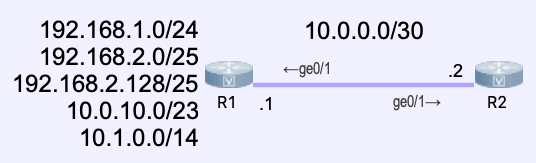
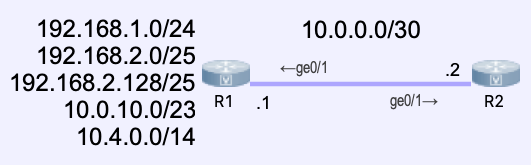
Correct IP overlap conflict in content and images

diff --git a/_posts/2019-12-27-Quick-Lab-RIPv2-Auto-Summary.md b/_posts/2019-12-27-Quick-Lab-RIPv2-Auto-Summary.md
@@ -57,7 +57,7 @@ interface Loopback3
 
 interface Loopback4
   no shutdown
-  ip address 10.1.0.1 255.252.0.0
+  ip address 10.4.0.1 255.252.0.0
 
 router rip
   version 2
@@ -113,7 +113,7 @@ Loopback0                  192.168.1.1     YES TFTP   up                    up
 Loopback1                  192.168.2.1     YES TFTP   up                    up
 Loopback2                  192.168.2.129   YES TFTP   up                    up
 Loopback3                  10.0.10.1       YES TFTP   up                    up
-Loopback4                  10.1.0.1        YES TFTP   up                    up
+Loopback4                  10.4.0.1        YES TFTP   up                    up
 ```
 
 Next, let's confirm that RIPv2 is automatically performing network summarization, as well as advertising all desired networks.
@@ -169,12 +169,12 @@ We can see which specific prefixes RIPv2 is advertising through `debug ip rip`:
 R1#debug ip rip
 RIP protocol debugging is on
 R1#
-*Dec 27 13:39:37.978: RIP: sending v2 update to 224.0.0.9 via GigabitEthernet0/1 (10.0.0.1)
-*Dec 27 13:39:37.979: RIP: build update entries
-*Dec 27 13:39:37.979: 	10.0.0.0/14 via 0.0.0.0, metric 1, tag 0
-*Dec 27 13:39:37.979: 	10.0.10.0/23 via 0.0.0.0, metric 1, tag 0
-*Dec 27 13:39:37.980: 	192.168.1.0/24 via 0.0.0.0, metric 1, tag 0
-*Dec 27 13:39:37.980: 	192.168.2.0/24 via 0.0.0.0, metric 1, tag 0
+*Dec 28 03:17:42.650: RIP: sending v2 update to 224.0.0.9 via GigabitEthernet0/1 (10.0.0.1)
+*Dec 28 03:17:42.651: RIP: build update entries
+*Dec 28 03:17:42.651: 	10.0.10.0/23 via 0.0.0.0, metric 1, tag 0
+*Dec 28 03:17:42.651: 	10.4.0.0/14 via 0.0.0.0, metric 1, tag 0
+*Dec 28 03:17:42.652: 	192.168.1.0/24 via 0.0.0.0, metric 1, tag 0
+*Dec 28 03:17:42.652: 	192.168.2.0/24 via 0.0.0.0, metric 1, tag 0
 R1#undebug all
 All possible debugging has been turned off
 R1#
@@ -189,17 +189,17 @@ R2's RIPv2 database confirms the prefixes received by R1.
 ```
 R2#show ip rip database
 10.0.0.0/8    auto-summary
-10.0.0.0/14
-    [1] via 10.0.0.1, 00:00:08, GigabitEthernet0/1
 10.0.0.0/30    directly connected, GigabitEthernet0/1
 10.0.10.0/23
-    [1] via 10.0.0.1, 00:00:08, GigabitEthernet0/1
+    [1] via 10.0.0.1, 00:00:01, GigabitEthernet0/1
+10.4.0.0/14
+    [1] via 10.0.0.1, 00:00:01, GigabitEthernet0/1
 192.168.1.0/24    auto-summary
 192.168.1.0/24
-    [1] via 10.0.0.1, 00:00:08, GigabitEthernet0/1
+    [1] via 10.0.0.1, 00:00:01, GigabitEthernet0/1
 192.168.2.0/24    auto-summary
 192.168.2.0/24
-    [1] via 10.0.0.1, 00:00:08, GigabitEthernet0/1
+    [1] via 10.0.0.1, 00:00:01, GigabitEthernet0/1
 ```
 
 A summary of the behavior imposed on all 6 of R1's up/up Layer 3 interfaces can be found in the table below:
@@ -211,7 +211,7 @@ A summary of the behavior imposed on all 6 of R1's up/up Layer 3 interfaces can 
 | 192.168.2.0/25   | Summarized into **192.168.2.0/24**, advertised |
 | 192.168.2.128/25 | Summarized into **192.168.2.0/24**, advertised |
 | 10.0.10.0/23     | Not summarized, advertised as-is               |
-| 10.1.0.0/14      | Not summarized, advertised as-is               |
+| 10.4.0.0/14      | Not summarized, advertised as-is               |
 
 We can confirm that RIPv2's auto-summary feature is causing classless networks 192.168.2.0/25 and 192.168.2.128/25 to be summarized into a Class C 192.168.2.0/24 network by removing the default `auto-summary` configuration from the RIPv2 process on R1.
 
@@ -239,18 +239,61 @@ Now, let's reactivate RIPv2 debugs on R1 to see how many prefixes are being adve
 R1#debug ip rip
 RIP protocol debugging is on
 R1#
-*Dec 27 13:55:26.238: RIP: sending v2 update to 224.0.0.9 via GigabitEthernet0/1 (10.0.0.1)
-*Dec 27 13:55:26.239: RIP: build update entries
-*Dec 27 13:55:26.239: 	10.0.0.0/14 via 0.0.0.0, metric 1, tag 0
-*Dec 27 13:55:26.240: 	10.0.10.0/23 via 0.0.0.0, metric 1, tag 0
-*Dec 27 13:55:26.240: 	192.168.1.0/24 via 0.0.0.0, metric 1, tag 0
-*Dec 27 13:55:26.240: 	192.168.2.0/25 via 0.0.0.0, metric 1, tag 0
-*Dec 27 13:55:26.241: 	192.168.2.128/25 via 0.0.0.0, metric 1, tag 0
+*Dec 28 03:18:10.614: RIP: sending v2 update to 224.0.0.9 via GigabitEthernet0/1 (10.0.0.1)
+*Dec 28 03:18:10.615: RIP: build update entries
+*Dec 28 03:18:10.615: 	10.0.10.0/23 via 0.0.0.0, metric 1, tag 0
+*Dec 28 03:18:10.615: 	10.4.0.0/14 via 0.0.0.0, metric 1, tag 0
+*Dec 28 03:18:10.616: 	192.168.1.0/24 via 0.0.0.0, metric 1, tag 0
+*Dec 28 03:18:10.616: 	192.168.2.0/25 via 0.0.0.0, metric 1, tag 0
+*Dec 28 03:18:10.616: 	192.168.2.128/25 via 0.0.0.0, metric 1, tag 0
 R1#undebug all
 All possible debugging has been turned off
 ```
 
-We see all **5** expected prefixes inserted in the RIPv2 update.
+We see all **5** expected prefixes inserted in the RIPv2 update. Checking R2's RIP database, we can also see all 5 prefixes present in the database.
+
+```
+R2#show ip rip database
+10.0.0.0/8    auto-summary
+10.0.0.0/30    directly connected, GigabitEthernet0/1
+10.0.10.0/23
+    [1] via 10.0.0.1, 00:00:07, GigabitEthernet0/1
+10.4.0.0/14
+    [1] via 10.0.0.1, 00:00:07, GigabitEthernet0/1
+192.168.1.0/24    auto-summary
+192.168.1.0/24
+    [1] via 10.0.0.1, 00:00:07, GigabitEthernet0/1
+192.168.2.0/24    auto-summary
+192.168.2.0/25
+    [1] via 10.0.0.1, 00:00:07, GigabitEthernet0/1
+192.168.2.128/25
+    [1] via 10.0.0.1, 00:00:07, GigabitEthernet0/1
+```
+
+Finally, let's confirm that all 5 prefixes are present in R2's routing table.
+
+```
+R2#show ip route rip
+Codes: L - local, C - connected, S - static, R - RIP, M - mobile, B - BGP
+       D - EIGRP, EX - EIGRP external, O - OSPF, IA - OSPF inter area
+       N1 - OSPF NSSA external type 1, N2 - OSPF NSSA external type 2
+       E1 - OSPF external type 1, E2 - OSPF external type 2
+       i - IS-IS, su - IS-IS summary, L1 - IS-IS level-1, L2 - IS-IS level-2
+       ia - IS-IS inter area, * - candidate default, U - per-user static route
+       o - ODR, P - periodic downloaded static route, H - NHRP, l - LISP
+       a - application route
+       + - replicated route, % - next hop override, p - overrides from PfR
+
+Gateway of last resort is not set
+
+      10.0.0.0/8 is variably subnetted, 4 subnets, 4 masks
+R        10.0.10.0/23 [120/1] via 10.0.0.1, 00:00:23, GigabitEthernet0/1
+R        10.4.0.0/14 [120/1] via 10.0.0.1, 00:00:23, GigabitEthernet0/1
+R     192.168.1.0/24 [120/1] via 10.0.0.1, 00:00:23, GigabitEthernet0/1
+      192.168.2.0/25 is subnetted, 2 subnets
+R        192.168.2.0 [120/1] via 10.0.0.1, 00:00:23, GigabitEthernet0/1
+R        192.168.2.128 [120/1] via 10.0.0.1, 00:00:23, GigabitEthernet0/1
+```
 
 The best explanation for this behavior can be found in the ["Configuring Routing Information Protocol" chapter of the IP Routing: RIP Configuration Guide for Cisco IOS Release 15M&T](https://www.cisco.com/c/en/us/td/docs/ios-xml/ios/iproute_rip/configuration/15-mt/irr-15-mt-book/irr-cfg-info-prot.html). Under the ["RIP Route Summarization" heading](https://www.cisco.com/c/en/us/td/docs/ios-xml/ios/iproute_rip/configuration/15-mt/irr-15-mt-book/irr-cfg-info-prot.html#GUID-2866E276-1910-4D24-A9C1-B50417E98791), the guide states that automatic summarization happens "by summarizinig subprefixes to the classful network boundary **when crossing classful network boundaries**." Furthermore, under the ["Summarizing RIP Routes" heading](https://www.cisco.com/c/en/us/td/docs/ios-xml/ios/iproute_rip/configuration/15-mt/irr-15-mt-book/irr-cfg-info-prot.html#GUID-882B0911-CCDA-402B-862E-FF1B8BB751AC), the guide states the following:
 
@@ -273,9 +316,9 @@ Individual organizations (such as businesses, universities, etc.) were originall
 To accomplish this, rules needed to be implemented in software to have this feature work intelligently. The Cisco IOS implementation of RIPv2's automatic route summarization is essentially as follows:
 
 * If RIPv2 has multiple subprefixes within a classful boundary in the RIP database and needs to send an update message out of an interface **owning a subprefix within the same classful boundary**, then RIPv2 will **not** perform automatic network summarization.
-  * In our example, R1 has 10.0.0.0/14 and 10.0.10.0/23 present in the RIP database. It needs to send an update out of Gi0/1, which has an IP address of 10.0.0.1 in the 10.0.0.0/30 network. All three of these networks are subprefixes of the Class A 10.0.0.0/8 network. Since RIPv2 needs to send an update out of Gi0/1 (10.0.0.1), **R1 will not automatically summarize 10.0.0.0/14 and 10.0.10.0/23 to 10.0.0.0/8.**
+  * In our example, R1 has 10.4.0.0/14 and 10.0.10.0/23 present in the RIP database. It needs to send an update out of Gi0/1, which has an IP address of 10.0.0.1 in the 10.0.0.0/30 network. All three of these networks are subprefixes of the Class A 10.0.0.0/8 network. Since RIPv2 needs to send an update out of Gi0/1 (10.0.0.1), **R1 will not automatically summarize 10.4.0.0/14 and 10.0.10.0/23 to 10.0.0.0/8.**
 * If RIPv2 has multiple subprefixes within a classful boundary in the RIP database and needs to send an update message out of an interface that has an IP address **within a different classful boundary**, then RIPv2 **will** perform automatic network summarization.
-  * For example, let's say a new interface Gi0/2 is created. This interface has an IP address of 11.0.0.1/30, connects to a third router, and is activated in the RIP process with `network 11.0.0.0` configuration. RIPv2 will automatically summarize 10.0.0.0/14, 10.0.10.0/23, and 10.0.0.0/30 into a single 10.0.0.0/8 classful prefix that is advertised out the Gi0/2 interface towards the third router.
+  * For example, let's say a new interface Gi0/2 is created. This interface has an IP address of 11.0.0.1/30, connects to a third router, and is activated in the RIP process with `network 11.0.0.0` configuration. RIPv2 will automatically summarize 10.4.0.0/14, 10.0.10.0/23, and 10.0.0.0/30 into a single 10.0.0.0/8 classful prefix that is advertised out the Gi0/2 interface towards the third router.
 
 RIPv2's automatic summarization feature is often misunderstood - I hope that this helped you understand it better!
 
